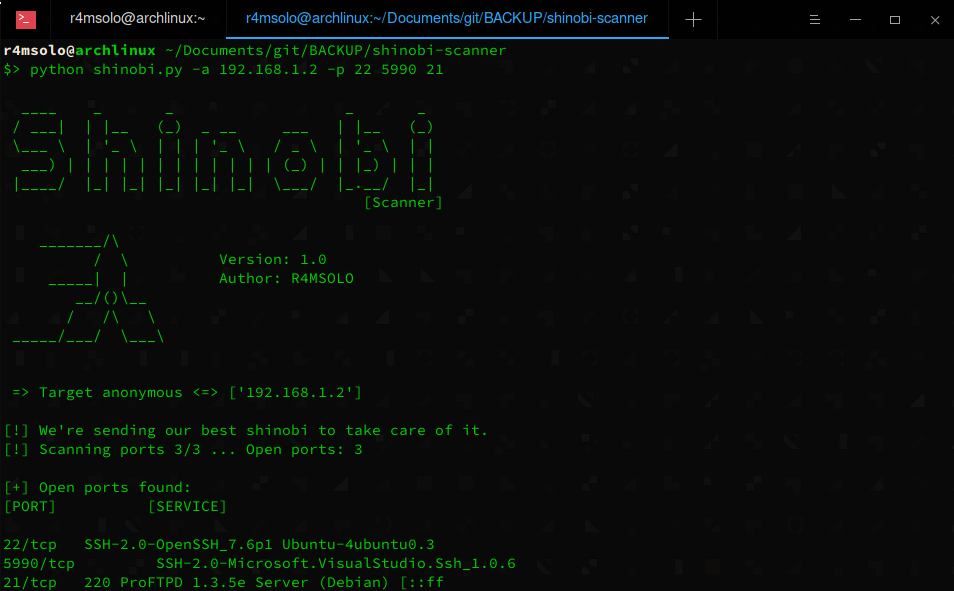
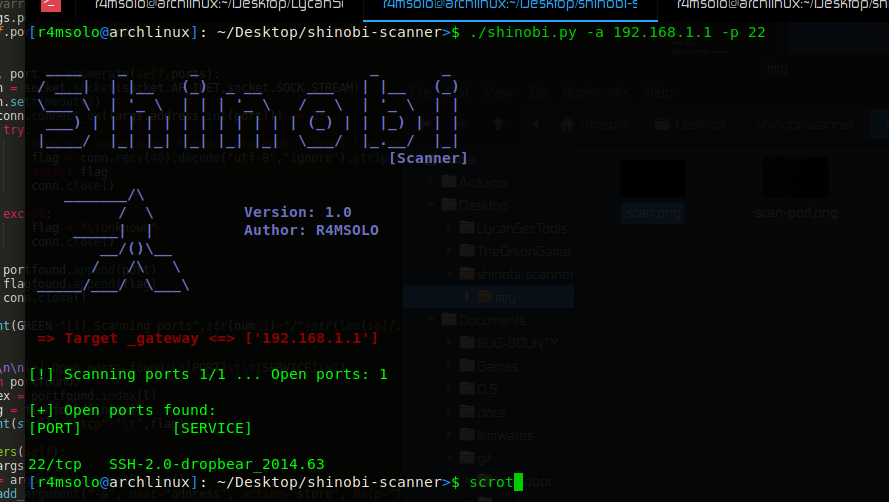
colors

diff --git a/shinobi.py b/shinobi.py
@@ -21,11 +21,11 @@ class NetworkScan():
 			domain = args.address,socket.gethostbyaddr(args.address)
 			x = domain[1][0]
 			z = domain[1][2]
-			print("\n => Target",x,"<=>",z,"\n")
+			print(RED+BOLD+"\n => Target",x,"<=>",z,"\n"+ENDC)
 			self.portScan()
 
 		except TypeError:
-			print(" [!] Usage ./shinobi.py -h for help")
+			print(GREY+" [!] Usage ./shinobi.py -h for help"+ENDC)
 			quit()
 
 	def portScan(self):
@@ -39,12 +39,10 @@ class NetworkScan():
 		#[DEFAULT] Varre todas portas se não for passado parâmetro | scans all ports as default
 		if args.ports == None:
 			self.ports = list(range(1,65536))
-			print("[!] This may take a while, get some coffee, I'll take care of it for you ;)","\n")
 		
 		#Faz a varredura nas portas somente passadas por parametro | Scans the ports passed by parameter
 		elif args.ports != None:
 			self.ports = args.ports
-			print("[!] We're sending our best shinobi to take care of it.")
 
 		
 		for num, port in enumerate(self.ports):
@@ -65,7 +63,7 @@ class NetworkScan():
 				flagfound.append(flag)
 				conn.close()
 
-			print("[!] Scanning ports",str(num+1)+"/"+str(len(self.ports)),"...","Open ports:",len(portfound), end = "\r")
+			print(GREEN+"[!] Scanning ports",str(num+1)+"/"+str(len(self.ports)),"...","Open ports:",len(portfound), end = "\r")
 		
 		
 		print("\n\n[+] Open ports found:\n[PORT]\t\t[SERVICE]\n")
@@ -81,7 +79,15 @@ class NetworkScan():
  		parser.add_argument("-p", dest="ports", nargs="+", action="store", help="For specific port scans (ex. -p 22 80)")
  		args = parser.parse_args()
 
-banner = '''
+'''Colors'''
+PURPLE = '\033[95m'
+GREEN = '\033[92m'
+GREY = '\033[93m'
+RED = '\033[91m'
+ENDC = '\033[0m'
+BOLD = '\033[1m'
+
+banner = PURPLE+BOLD+'''
   ____    _       _                   _       _  
  / ___|  | |__   (_)  _ __     ___   | |__   (_)
  \___ \  | '_ \  | | | '_ \   / _ \  | '_ \  | |
@@ -95,7 +101,7 @@ banner = '''
         __/()\__  
        /   /\   \ 
  _____/___/  \___\            
-'''
+'''+ENDC
 
 if __name__ == "__main__":
 	try:
